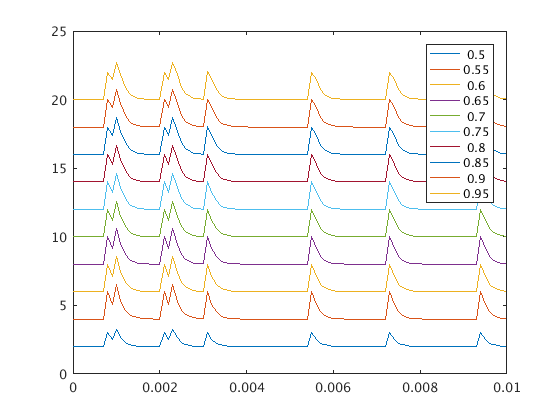
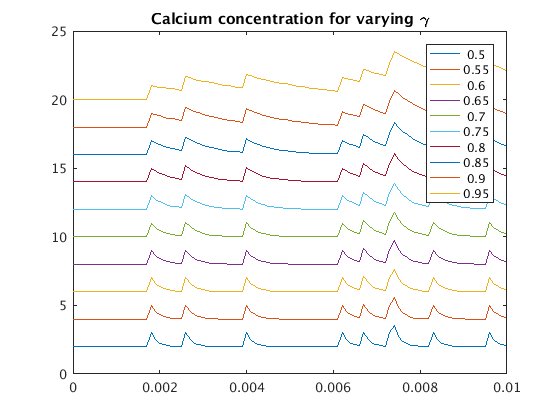
bug in ARmodel

diff --git a/tutorial/html/ARmodel.html b/tutorial/html/ARmodel.html
@@ -6,7 +6,7 @@
    <!--
 This HTML was auto-generated from MATLAB code.
 To make changes, update the MATLAB code and republish this document.
-      --><title>Autoregressive Model for Calcium Dynamics</title><meta name="generator" content="MATLAB 9.0"><link rel="schema.DC" href="http://purl.org/dc/elements/1.1/"><meta name="DC.date" content="2016-11-15"><meta name="DC.source" content="ARmodel.m"><style type="text/css">
+      --><title>Autoregressive Model for Calcium Dynamics</title><meta name="generator" content="MATLAB 9.0"><link rel="schema.DC" href="http://purl.org/dc/elements/1.1/"><meta name="DC.date" content="2016-11-17"><meta name="DC.source" content="ARmodel.m"><style type="text/css">
 html,body,div,span,applet,object,iframe,h1,h2,h3,h4,h5,h6,p,blockquote,pre,a,abbr,acronym,address,big,cite,code,del,dfn,em,font,img,ins,kbd,q,s,samp,small,strike,strong,sub,sup,tt,var,b,u,i,center,dl,dt,dd,ol,ul,li,fieldset,form,label,legend,table,caption,tbody,tfoot,thead,tr,th,td{margin:0;padding:0;border:0;outline:0;font-size:100%;vertical-align:baseline;background:transparent}body{line-height:1}ol,ul{list-style:none}blockquote,q{quotes:none}blockquote:before,blockquote:after,q:before,q:after{content:'';content:none}:focus{outine:0}ins{text-decoration:none}del{text-decoration:line-through}table{border-collapse:collapse;border-spacing:0}
 
 html { min-height:100%; margin-bottom:1px; }
@@ -79,23 +79,32 @@ spikes = zeros(dur/dt+1,1);
         spikes(t) = 1;
     <span class="keyword">end</span>
 <span class="keyword">end</span>
-</pre><h2>Applying the AR model to Action Potentials<a name="2"></a></h2><p>Before implementing the calculation, consider what each of the parameters in the model does. Look again at the AR model.</p><p><img src="ARmodel_eq06263262507588699212.png" alt="$c(t) = \sum_{j=1}^p\gamma_jc(t-j)+s(t)$"></p><p>Consider the following for <img src="ARmodel_eq12081968486337205601.png" alt="$p=1$">: * What does the parameter <img src="ARmodel_eq15212781520413577972.png" alt="$\gamma_1$"> represent? * How do changes to <img src="ARmodel_eq15212781520413577972.png" alt="$\gamma_1$"> affect the calcium signal? * What are reasonable values for this parameter?</p><p>Look at what happens when we vary <img src="ARmodel_eq15212781520413577972.png" alt="$\gamma_1$">:</p><pre class="codeinput">P = 1;
+</pre><h2>Applying the AR model to Action Potentials<a name="2"></a></h2><p>Before implementing the calculation, consider what each of the parameters in the model does. Look again at the AR model.</p><p><img src="ARmodel_eq06263262507588699212.png" alt="$c(t) = \sum_{j=1}^p\gamma_jc(t-j)+s(t)$"></p><p>Consider the following for <img src="ARmodel_eq12081968486337205601.png" alt="$p=1$">: * What does the parameter <img src="ARmodel_eq15212781520413577972.png" alt="$\gamma_1$"> represent? * How do changes to <img src="ARmodel_eq15212781520413577972.png" alt="$\gamma_1$"> affect the calcium signal? * What are reasonable values for this parameter?</p><p>Look at what happens when we vary <img src="ARmodel_eq15212781520413577972.png" alt="$\gamma_1$">:</p><pre class="codeinput">p = 1;
 Gamma = (.5:.05:.99);
 calcium = zeros(length(spikes),numel(Gamma));
 <span class="keyword">for</span> g = 1:numel(Gamma)
     gamma = Gamma(g);
     <span class="keyword">for</span> t = 2:length(spikes)
-        <span class="keyword">for</span> p = 1:P
-            calcium(t,g) = calcium(t) + gamma(p)*calcium(t-p)+spikes(t);
-        <span class="keyword">end</span>
+        calcium(t,g) = gamma(p)*calcium(t-p,g)+spikes(t);
     <span class="keyword">end</span>
-    plot((0:dt:dur),calcium(:,g)+2*g); hold <span class="string">on</span>
+    figure(1); plot((0:dt:dur),calcium(:,g)+2*g); hold <span class="string">on</span>
 <span class="keyword">end</span>
+title(<span class="string">'Calcium concentration for varying \gamma'</span>)
 hold <span class="string">off</span>;
 legend(num2str(Gamma'))
-</pre><img vspace="5" hspace="5" src="ARmodel_01.png" alt=""> <p>Can you tell what's happening? What if we overlay the plots of the calcium signal with the highest and lowest values of <img src="ARmodel_eq17096441642737911057.png" alt="$\gamma$">.</p><pre class="codeinput">plot((0:dt:dur),calcium(:,[1,g]))
+</pre><img vspace="5" hspace="5" src="ARmodel_01.png" alt=""> <p>Can you tell what's happening? What if we overlay the plots of the calcium signal with the highest and lowest values of <img src="ARmodel_eq17096441642737911057.png" alt="$\gamma$">.</p><pre class="codeinput">figure(2); plot((0:dt:dur),calcium(:,[1,g]))
 legend(num2str(Gamma([1,g])'))
-</pre><img vspace="5" hspace="5" src="ARmodel_02.png" alt=""> <p class="footer"><br><a href="http://www.mathworks.com/products/matlab/">Published with MATLAB&reg; R2016a</a><br></p></div><!--
+title(<span class="string">'Comparison of traces with high and low \gamma'</span>)
+</pre><img vspace="5" hspace="5" src="ARmodel_02.png" alt=""> <p>Let's do one more comparison: are the peaks in the same place?</p><pre class="codeinput">[~,peaklocs] = arrayfun(@(i) findpeaks(calcium(:,i),[1;g]),<span class="keyword">...</span>
+    <span class="string">'uniformoutput'</span>,false);
+disp(cat(2,peaklocs{:}))
+</pre><pre class="codeoutput error">Error using arrayfun
+All of the input arguments must be of the same size and shape.
+Previous inputs had size 13 in dimension 2. Input #3 has size 1
+
+Error in ARmodel (line 53)
+[~,peaklocs] = arrayfun(@(i) findpeaks(calcium(:,i),[1;g]),...
+</pre><p class="footer"><br><a href="http://www.mathworks.com/products/matlab/">Published with MATLAB&reg; R2016a</a><br></p></div><!--
 ##### SOURCE BEGIN #####
 %% Autoregressive Model for Calcium Dynamics
 % Explain what an autoregressive model is and how this applies
@@ -127,25 +136,30 @@ end
 % * What are reasonable values for this parameter?
 %%
 % Look at what happens when we vary $\gamma_1$:
-P = 1;
+p = 1;
 Gamma = (.5:.05:.99);
 calcium = zeros(length(spikes),numel(Gamma));
 for g = 1:numel(Gamma)
     gamma = Gamma(g);
     for t = 2:length(spikes)
-        for p = 1:P
-            calcium(t,g) = calcium(t) + gamma(p)*calcium(t-p)+spikes(t);
-        end
+        calcium(t,g) = gamma(p)*calcium(t-p,g)+spikes(t);
     end
-    plot((0:dt:dur),calcium(:,g)+2*g); hold on
+    figure(1); plot((0:dt:dur),calcium(:,g)+2*g); hold on
 end
+title('Calcium concentration for varying \gamma')
 hold off;
 legend(num2str(Gamma'))
 %%
 % Can you tell what's happening?
 % What if we overlay the plots of the calcium signal with the highest and
 % lowest values of $\gamma$.
-plot((0:dt:dur),calcium(:,[1,g]))
+figure(2); plot((0:dt:dur),calcium(:,[1,g]))
 legend(num2str(Gamma([1,g])'))
+title('Comparison of traces with high and low \gamma')
+%%
+% Let's do one more comparison: are the peaks in the same place?
+[~,peaklocs] = arrayfun(@(i) findpeaks(calcium(:,i),[1;g]),...
+    'uniformoutput',false);
+disp(cat(2,peaklocs{:}))
 ##### SOURCE END #####
 --></body></html>

diff --git a/tutorial/ARmodel.m b/tutorial/ARmodel.m
@@ -28,23 +28,28 @@ end
 % * What are reasonable values for this parameter?
 %%
 % Look at what happens when we vary $\gamma_1$:
-P = 1;
+p = 1;
 Gamma = (.5:.05:.99);
 calcium = zeros(length(spikes),numel(Gamma));
 for g = 1:numel(Gamma)
     gamma = Gamma(g);
     for t = 2:length(spikes)
-        for p = 1:P
-            calcium(t,g) = calcium(t) + gamma(p)*calcium(t-p)+spikes(t);
-        end
+        calcium(t,g) = gamma(p)*calcium(t-p,g)+spikes(t);
     end
-    plot((0:dt:dur),calcium(:,g)+2*g); hold on
+    figure(1); plot((0:dt:dur),calcium(:,g)+2*g); hold on
 end
+title('Calcium concentration for varying \gamma')
 hold off;
 legend(num2str(Gamma'))
 %%
 % Can you tell what's happening?
 % What if we overlay the plots of the calcium signal with the highest and
 % lowest values of $\gamma$.
-plot((0:dt:dur),calcium(:,[1,g]))
+figure(2); plot((0:dt:dur),calcium(:,[1,g]))
 legend(num2str(Gamma([1,g])'))
+title('Comparison of traces with high and low \gamma')
+%%
+% Let's do one more comparison: are the peaks in the same place?
+[~,peaklocs] = arrayfun(@(i) findpeaks(calcium(:,i),[1;g]),...
+    'uniformoutput',false);
+disp(cat(2,peaklocs{:}))

diff --git a/CaImSegmentation.m b/CaImSegmentation.m
@@ -1,4 +1,4 @@
-function [SpatMap,CaSignal,Spikes,width,height,Cn] = CaImSegmentation(VideoFileName,maxNeurons,estNeuronSize)
+function [SpatMap,CaSignal,Spikes,width,height,Cn,P,options] = CaImSegmentation(VideoFileName,maxNeurons,estNeuronSize)
 %CaImSegmentation.m
 %   See Pnevmatikakis & Paninski, 2014 & 2016, for their matrix factorization
 %     algorithm to automate image segmentation for calcium imaging data.
